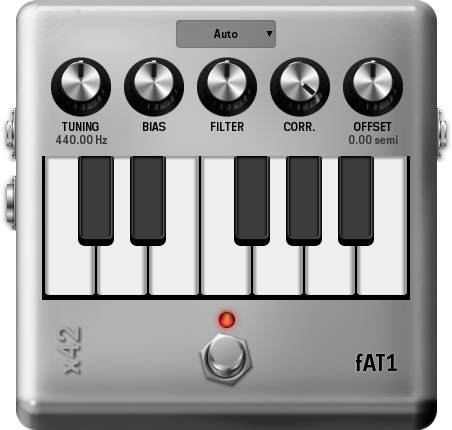
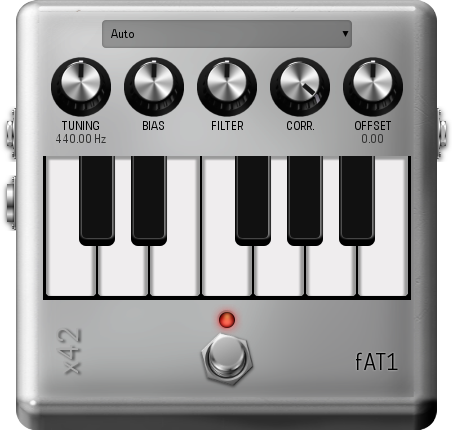
Update fat1.lv2 bundle

diff --git a/plugins-fixed/fat1.lv2/modgui/x42-autotune.js b/plugins-fixed/fat1.lv2/modgui/x42-autotune.js
@@ -30,34 +30,83 @@ function (event) {
 		}
 	}
 
+	function update_midi_mask (data) {
+		if (data.mode == 2 || (data.mode == 0 && data.nmask == 0)) {
+			/* manual mode -- control input applies */
+			/* auto mode -- control applies IFF no midi notes are set */
+			for (k = 0; k < 12; ++k) {
+				mask_key (k, 0);
+			}
+			return;
+		}
+		/* midi rulez */
+		for (k = 0; k < 12; ++k) {
+			mask_key (k, (Math.floor (data.nmask) & (1 << k)) == 0 ? -1 : 1);
+		}
+	}
+
+	function update_note_set (data) {
+		for (k = 0; k < 12; ++k) {
+			set_key (k, Math.floor (data.nset) & (1 << k));
+		}
+	}
+
+	function update_pitcherror (err) {
+		var bar = event.icon.find ('[mod-role=pitch-error]');
+		if (Math.abs (err) > 0.33) {
+			bar.addClass ('bad');
+		} else {
+			bar.removeClass ('bad');
+		}
+		var pos = 63 + 64 * err;
+		bar.css ('left', pos + 'px'); /* CSS or style? XXX */
+	}
+
 	/* top-level entry, called from mod-ui */
 	if (event.type == 'start') {
 		var ports = event.ports;
+		var data = {};
+		data.mode = 0;
+		data.nmask = 0;
+		data.nset = 0;
 		for (var p in ports) {
-			if (ports[p].symbol == 'mode') {
-				var pk = event.icon.find ('[mod-role=piano-keyboard]');
-				if (event.value == 1) {
-					pk.css('display', 'none');
-				} else {
-					pk.css('display', 'block');
-				}
+			if (event.symbol == 'error') {
+				update_pitcherror (event.value);
+			}
+			else if (ports[p].symbol == 'mode') {
+				data.mode = event.value;
+			}
+			else if (ports[p].symbol == 'nmask') {
+				data.nmask = event.value;
+			}
+			else if (ports[p].symbol == 'nset') {
+				data.nset = event.value;
 			}
 		}
+		update_midi_mask (data);
+		update_note_set (data);
+		var ds = event.icon.find ('[mod-role=drag-handle]');
+		ds.data ('persist', data);
 	}
 	else if (event.type == 'change') {
-		if (event.symbol == 'mode') {
-			var pk = event.icon.find ('[mod-role=piano-keyboard]');
-			if (event.value == 1) {
-				pk.css('display', 'none');
-			} else {
-				pk.css('display', 'block');
-			}
-			// prepare for output params -- MIDI set keys
-			if (event.value == 2) {
-				for (k = 0; k < 12; ++k) {
-					mask_key (k, 0);
-				}
-			}
+		var ds = event.icon.find ('[mod-role=drag-handle]');
+		var data = ds.data ('persist');
+		if (event.symbol == 'error') {
+			update_pitcherror (event.value);
+			return;
 		}
+		else if (event.symbol == 'mode') {
+			data.mode = event.value;
+			update_midi_mask (data);
+		}
+		else if (event.symbol == 'nmask') {
+			data.nmask = event.value;
+			update_midi_mask (data);
+		}
+		else if (event.symbol == 'nset') {
+			data.nset = event.value;
+			update_note_set (data);
+		}
+		ds.data ('persist', data);
 	}
 }

diff --git a/plugins-fixed/fat1.lv2/modgui/x42-autotune.css b/plugins-fixed/fat1.lv2/modgui/x42-autotune.css
@@ -34,7 +34,7 @@
     padding:0;
     text-shadow: -2px 2px 2px #444;
     transform: rotate(270deg);
-        -webkit-transform: rotate(270deg);
+    -webkit-transform: rotate(270deg);
 }
 
 .x42-autotune{{{cns}}} .x42-plugin-name {
@@ -145,15 +145,58 @@
         margin: 1px 5px;
 }
 
-/* = ENUMERATED LIST
+/* = TOP-Row (enum + pitch-error bars)
 ================================================ */
-.x42-autotune{{{cns}}} .mod-enumerated-group {
+.x42-autotune{{{cns}}} .at-toprow {
     height:31px;
     margin:20px auto 5px auto !important;
-    position:relative;
-    width:100px;
+    width:300px;
     z-index:35;
 }
+
+.x42-autotune{{{cns}}} .pitcherror,
+.x42-autotune{{{cns}}} .mod-enumerated-group {
+    height:31px;
+    margin:0 10px 0 10px;
+    position:relative;
+    width:130px;
+    float:left;
+}
+
+.x42-autotune{{{cns}}} .pitcherror,
+.x42-autotune{{{cns}}} .mod-enumerated .mod-enumerated-selected {
+    background-color:rgba(0,0,0,.3);
+    box-shadow:inset 0 0 4px rgba(0,0,0,.3);
+    border-radius:4px;
+}
+
+/* = Pitch Error display
+================================================ */
+.x42-autotune{{{cns}}} .pitcherror {
+    background-image:url(/resources/pitcherror.png{{{ns}}});
+    background-position:center;
+    background-repeat:no-repeat;
+    overflow:hidden;
+}
+
+.x42-autotune{{{cns}}} .pitcherror .bar {
+    background:#00ff00;
+    box-shadow: 0px 0px 0px 1px #000;
+    position:absolute;
+    width:3px;
+    margin:0;
+    padding:0;
+    height:31px;
+    top:0px;
+    left:63px;
+}
+
+.x42-autotune{{{cns}}} .pitcherror .bar.bad {
+    background:#ff0000;
+}
+
+/* = ENUMERATED LIST
+================================================ */
 
 .x42-autotune{{{cns}}} .mod-enumerated {
     background-image:url(/resources/dropdown-arrow-black.png{{{ns}}});
@@ -170,9 +213,6 @@
 }
 
 .x42-autotune{{{cns}}} .mod-enumerated .mod-enumerated-selected {
-    background-color:rgba(0,0,0,.3);
-    box-shadow:inset 0 0 4px rgba(0,0,0,.3);
-    border-radius:4px;
     padding:3px 9px;
 }
 

diff --git a/plugins-fixed/fat1.lv2/modgui/x42-autotune.html b/plugins-fixed/fat1.lv2/modgui/x42-autotune.html
@@ -3,15 +3,20 @@
 		<div class="x42-brand"><h1 title="Brought to you by x42.">x42</h1></div>
     <div class="x42-plugin-name"><h1>fAT1</h1></div>
 
-    <div class="mod-control-group mod-enumerated-group bottom clearfix">
-        <div class="mod-enumerated" mod-role="input-control-port" mod-port-symbol="mode" mod-widget="custom-select">
-          <div mod-role="input-control-value" mod-port-symbol="mode" class="mod-enumerated-selected"></div>
-          <div class="mod-enumerated-list">
-            <div mod-role="enumeration-option" mod-port-value="0">Auto</div>
-            <div mod-role="enumeration-option" mod-port-value="1">MIDI</div>
-            <div mod-role="enumeration-option" mod-port-value="2">Manual</div>
-          </div>
-        </div>
+    <div class="mod-control-group at-toprow clearfix">
+			<div class="mod-enumerated-group clearfix">
+				<div class="mod-enumerated" mod-role="input-control-port" mod-port-symbol="mode" mod-widget="custom-select">
+					<div mod-role="input-control-value" mod-port-symbol="mode" class="mod-enumerated-selected"></div>
+					<div class="mod-enumerated-list">
+						<div mod-role="enumeration-option" mod-port-value="0">Auto</div>
+						<div mod-role="enumeration-option" mod-port-value="1">MIDI</div>
+						<div mod-role="enumeration-option" mod-port-value="2">Manual</div>
+					</div>
+				</div>
+			</div>
+			<div class="pitcherror clearfix" title="Indicate the pitch error of the input signal with respect to the current note. The range is +/- one semitone.">
+				<div class="pitcherror bar" mod-role="pitch-error"></div>
+			</div>
     </div>
 
     <div class="mod-control-group mod-aluminium top clearfix">
